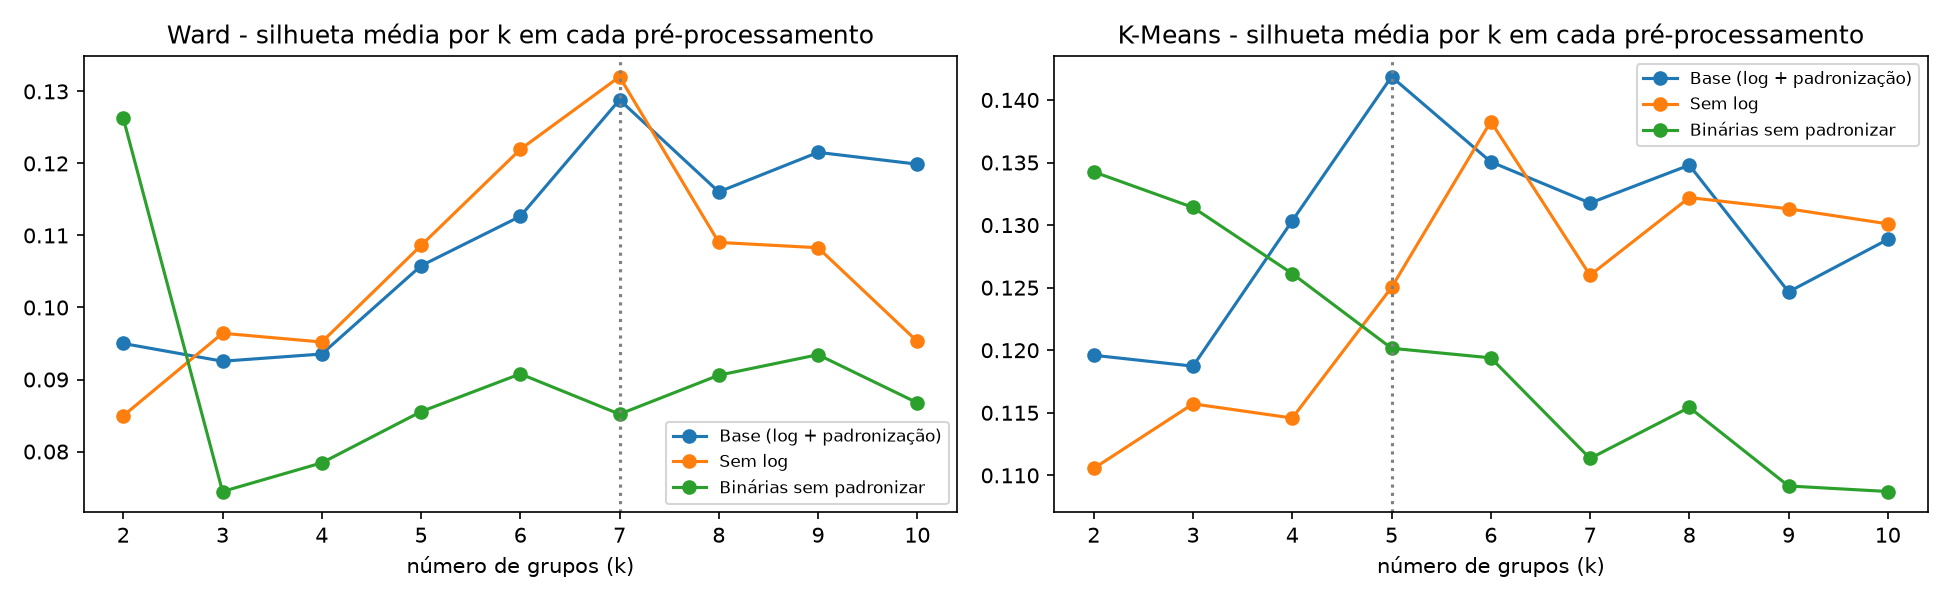
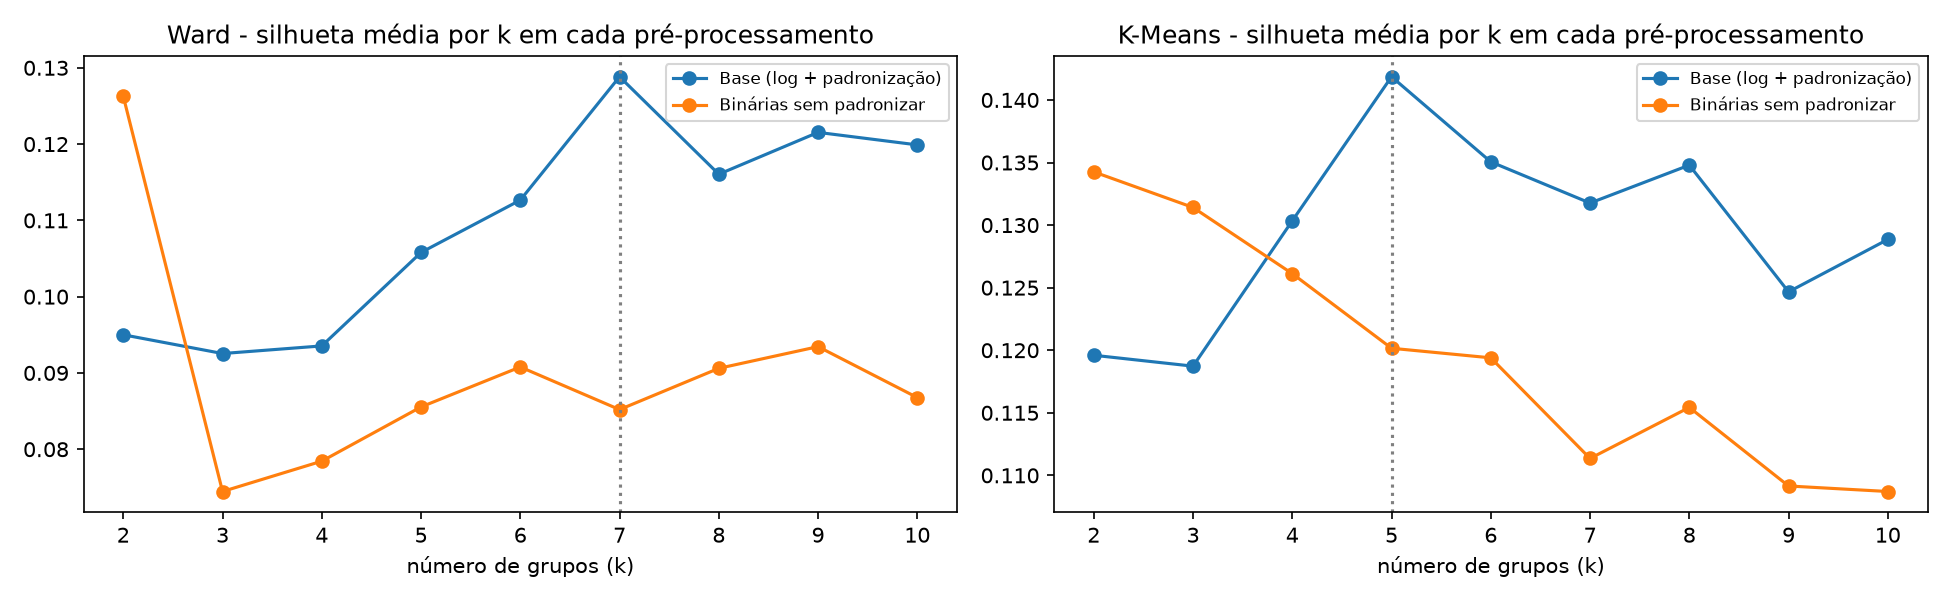
Sensibilidade so com base x binarias sem padronizar; remove print da morfologia
Generated with [Devin](https://devin.ai)

diff --git a/parte4_sensibilidade.py b/parte4_sensibilidade.py
@@ -1,5 +1,5 @@
 # PARTE 4 - SENSIBILIDADE AO PRE-PROCESSAMENTO
-# Refaz o pre-processamento das atividades mudando uma decisao por vez e repete o agrupamento (Ward k=7 e K-Means k=5)
+# Refaz o pre-processamento das atividades sem padronizar as binarias (01, 03, 04 e 16) e repete o agrupamento (Ward k=7 e K-Means k=5)
 # e o PCA. Rodar dentro da pasta do projeto, depois das partes 1 e 2: python parte4_sensibilidade.py
 import matplotlib.pyplot as plt
 import numpy as np
@@ -26,17 +26,15 @@ limpas = dados[atividades].replace({"Positivo": "1", "Negativo": "0"}).apply(pd.
 limpas = limpas.fillna(limpas.median())
 
 
-def preparar(log=True, padronizar_binarias=True):
+def preparar(padronizar_binarias=True):
     ativ = limpas.copy()
-    if log:
-        ativ[cauda_longa] = np.log1p(ativ[cauda_longa])
+    ativ[cauda_longa] = np.log1p(ativ[cauda_longa])
     colunas = atividades if padronizar_binarias else [c for c in atividades if c not in binarias]
     ativ[colunas] = StandardScaler().fit_transform(ativ[colunas])
     return ativ
 
 
 variantes = {"Base (log + padronização)": preparar(),
-             "Sem log": preparar(log=False),
              "Binárias sem padronizar": preparar(padronizar_binarias=False)}
 
 tabela = pd.read_csv("saida/dados_tratados.csv", index_col=0)

diff --git a/README.md b/README.md
@@ -56,8 +56,7 @@ Rodar depois das partes 1 e 2:
 python parte4_sensibilidade.py
 ```
 
-- Refaz o pré-processamento das 23 atividades mudando uma decisão por vez: sem log nas atividades de cauda longa
-  e atividades binárias (01, 03, 04 e 16) mantidas em 0/1 sem padronizar.
-- Em cada versão repete o Ward (k=7), o K-Means (k=5) e o PCA, e compara com a versão base (silhueta, Davies-Bouldin,
+- Refaz o pré-processamento das 23 atividades mantendo as atividades binárias (01, 03, 04 e 16) em 0/1, sem padronizar.
+- Nas duas versões (base e binárias sem padronizar) repete o Ward (k=7), o K-Means (k=5) e o PCA, e compara com a versão base (silhueta, Davies-Bouldin,
   ARI com o GRAM, estabilidade, ARI com os grupos da base, melhor k pela silhueta e variância do PCA). Semente 42.
 - Saídas em `saida/`: `sensibilidade_resultados.csv` e `sensibilidade_silhueta_por_k.png`.
